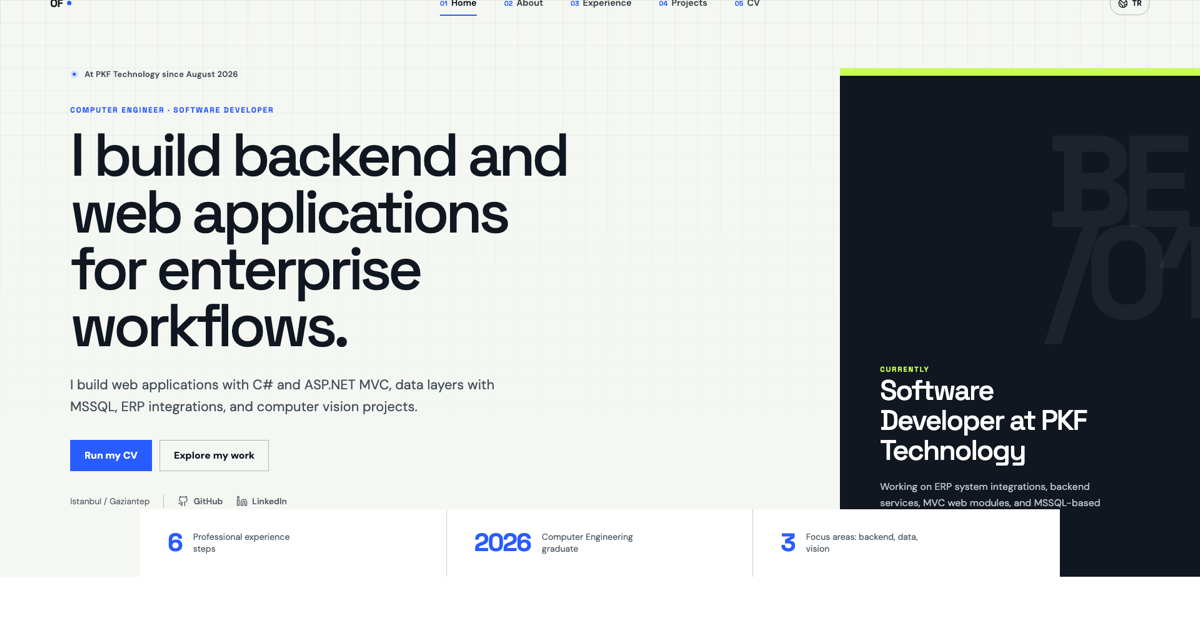
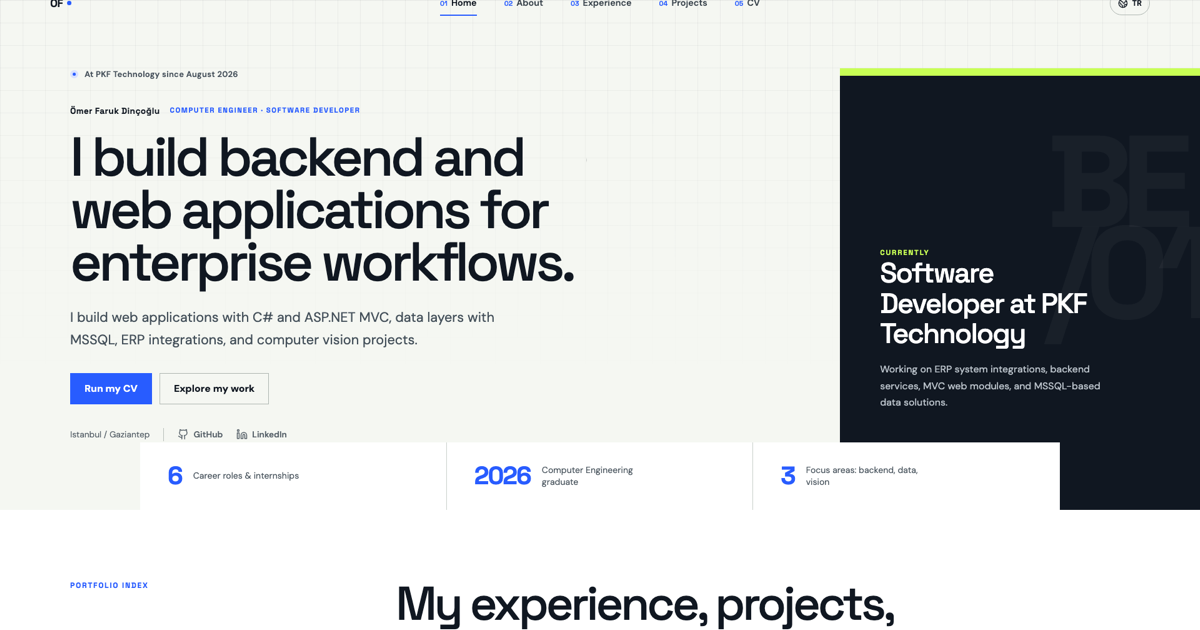
bug fix

diff --git a/src/App.tsx b/src/App.tsx
@@ -23,7 +23,7 @@ const content = {
     viewWork: 'Projeleri incele', watchCv: 'CV’yi çalıştır', contact: 'E-posta gönder', location: 'İstanbul / Gaziantep',
     focusLabel: 'Şu an', focusTitle: 'PKF Teknoloji’de Yazılım Geliştirici',
     focusBody: 'ERP sistem entegrasyonları, backend servisleri, MVC web modülleri ve MSSQL tabanlı veri çözümleri üzerinde çalışıyorum.',
-    stats: [['6', 'Profesyonel deneyim adımı'], ['2026', 'Bilgisayar Mühendisliği mezuniyeti'], ['3', 'Odak alanı: backend, veri, görüntü']],
+    stats: [['6', 'Profesyonel rol ve staj'], ['2026', 'Bilgisayar Mühendisliği mezuniyeti'], ['3', 'Odak alanı: backend, veri, görüntü']],
     homeIndexKicker: 'Portföy Dizini',
     homeIndexTitle: 'Deneyimim, projelerim ve teknik bilgilerim.',
     homeIndexIntro: 'Kariyerim, üretimde çalışan kurumsal sistemler, kişisel projelerim ve interaktif CV ayrı sayfalarda düzenlendi.',
@@ -33,14 +33,14 @@ const content = {
       ['03', 'Projeler', 'Bilgisayarlı görüden web ve veri uygulamalarına seçili çalışmalar.'],
       ['04', 'İnteraktif CV', 'Kariyerimi terminalde satır satır görüntüleyin.'],
     ],
-    profileKicker: '01 / Hakkımda', profileTitle: 'Backend, ERP entegrasyonları ve kurumsal web uygulamaları geliştiriyorum.',
+    profileKicker: '02 / Hakkımda', profileTitle: 'Backend, ERP entegrasyonları ve kurumsal web uygulamaları geliştiriyorum.',
     profileBody: 'Çukurova Üniversitesi Bilgisayar Mühendisliği (İngilizce) mezunuyum. Farklı sektörlerde edindiğim staj deneyimlerini bugün tam zamanlı ürün geliştirme süreçlerine taşıyorum. Backend geliştirme ve veri tasarımındaki odağımı, bilgisayarlı görü ve gerçek zamanlı kamera uygulamalarından gelen problem çözme pratiğiyle birleştiriyorum.',
     principles: [
       ['01', 'Uygulanabilirlik', 'Analizden canlı ortama uzanan, gerçek ihtiyaca bağlı çözümler.'],
       ['02', 'Sistem düşüncesi', 'Servis, veri ve arayüz katmanlarını birlikte ele alan yaklaşım.'],
       ['03', 'Sürekli gelişim', 'Yeni araçları hızla öğrenip üretim pratiğine dönüştürme.'],
     ],
-    cvKicker: '02 / İnteraktif CV', cvTitle: 'Deneyim ve projelerim, terminal formatında.',
+    cvKicker: '05 / İnteraktif CV', cvTitle: 'Deneyim ve projelerim, terminal formatında.',
     cvIntro: 'Bölüme geldiğinizde CV otomatik olarak yazılmaya başlar.', cvReplay: 'Baştan oynat', cvShowAll: 'Tümünü göster',
     cvFile: 'omer-faruk-dincoglu.cv', cvRunning: 'CV oluşturuluyor', cvReady: 'CV hazır',
     cvLines: [
@@ -117,7 +117,7 @@ const content = {
       { title: 'Galatasaray UCL Squad', type: 'Frontend Deneyimi', body: 'Kadro verilerini saha dizilişi ve liste görünümünde sunan; JSON veri yapısı ve SVG saha grafikleri kullanan responsive taraftar projesi.', tech: ['React', 'TypeScript', 'Vite', 'SVG'], image: uclSquadImage, imageAlt: 'Galatasaray UCL Squad canlı proje ekranı', href: 'https://github.com/farukdnc27/ucl2' },
     ],
     projectLink: 'GitHub’da incele',
-    skillsKicker: '05 / Teknik Yetkinlikler', skillsTitle: 'Kullandığım teknolojiler ve yetkinlikler',
+    skillsKicker: 'Teknik Yetkinlikler', skillsTitle: 'Kullandığım teknolojiler ve yetkinlikler',
     skillGroups: [
       { title: 'Backend & Web', body: 'Servisler, MVC modülleri ve entegrasyonlar', items: ['C#', 'ASP.NET MVC', 'Backend mimarileri', 'JavaScript', 'Servis entegrasyonları'] },
       { title: 'Veri & ERP', body: 'Modelleme, sorgulama ve iş sistemleri', items: ['MSSQL', 'SQL', 'Veri modelleme', 'Performans iyileştirme', 'Canias ERP'] },
@@ -131,7 +131,7 @@ const content = {
     heroTitle: 'I build backend and web applications for enterprise workflows.', heroBody: 'I build web applications with C# and ASP.NET MVC, data layers with MSSQL, ERP integrations, and computer vision projects.',
     viewWork: 'Explore my work', watchCv: 'Run my CV', contact: 'Send an email', location: 'Istanbul / Gaziantep',
     focusLabel: 'Currently', focusTitle: 'Software Developer at PKF Technology', focusBody: 'Working on ERP system integrations, backend services, MVC web modules, and MSSQL-based data solutions.',
-    stats: [['6', 'Professional experience steps'], ['2026', 'Computer Engineering graduate'], ['3', 'Focus areas: backend, data, vision']],
+    stats: [['6', 'Career roles & internships'], ['2026', 'Computer Engineering graduate'], ['3', 'Focus areas: backend, data, vision']],
     homeIndexKicker: 'Portfolio Index',
     homeIndexTitle: 'My experience, projects, and technical background.',
     homeIndexIntro: 'My career, production enterprise systems, personal projects, and interactive CV now live on dedicated pages.',
@@ -141,14 +141,14 @@ const content = {
       ['03', 'Projects', 'Selected work across computer vision, web, and data.'],
       ['04', 'Interactive CV', 'Watch my career render line by line in the terminal.'],
     ],
-    profileKicker: '01 / About', profileTitle: 'I build backend systems, ERP integrations, and enterprise web applications.',
+    profileKicker: '02 / About', profileTitle: 'I build backend systems, ERP integrations, and enterprise web applications.',
     profileBody: 'I graduated from the English-taught Computer Engineering program at Çukurova University. Today, I bring the experience I gained through internships in different industries into full-time product development. I combine my focus on backend development and data design with the problem-solving practice I gained from computer vision and real-time camera applications.',
     principles: [
       ['01', 'Practical delivery', 'Solutions tied to real needs, from analysis through production.'],
       ['02', 'Systems thinking', 'An approach that considers service, data, and interface layers together.'],
       ['03', 'Continuous growth', 'Learning new tools quickly and turning them into production practice.'],
     ],
-    cvKicker: '02 / Interactive CV', cvTitle: 'My experience and projects in terminal format.',
+    cvKicker: '05 / Interactive CV', cvTitle: 'My experience and projects in terminal format.',
     cvIntro: 'The CV starts typing automatically when it enters the screen.', cvReplay: 'Replay', cvShowAll: 'Show all',
     cvFile: 'omer-faruk-dincoglu.cv', cvRunning: 'Rendering CV', cvReady: 'CV ready',
     cvLines: [
@@ -225,7 +225,7 @@ const content = {
       { title: 'Galatasaray UCL Squad', type: 'Frontend Experience', body: 'A responsive fan project presenting squad data in formation and list views with a JSON data model and SVG pitch graphics.', tech: ['React', 'TypeScript', 'Vite', 'SVG'], image: uclSquadImage, imageAlt: 'Live Galatasaray UCL Squad project screen', href: 'https://github.com/farukdnc27/ucl2' },
     ],
     projectLink: 'View on GitHub',
-    skillsKicker: '05 / Technical Skills', skillsTitle: 'Technologies I use',
+    skillsKicker: 'Technical Skills', skillsTitle: 'Technologies I use',
     skillGroups: [
       { title: 'Backend & Web', body: 'Services, MVC modules, and integrations', items: ['C#', 'ASP.NET MVC', 'Backend architecture', 'JavaScript', 'Service integrations'] },
       { title: 'Data & ERP', body: 'Modelling, querying, and business systems', items: ['MSSQL', 'SQL', 'Data modelling', 'Performance improvement', 'Canias ERP'] },
@@ -460,7 +460,7 @@ function App() {
           <div className="hero__grid" aria-hidden="true" />
           <div className="hero__copy reveal">
             <div className="availability"><span />{t.availability}</div>
-            <p className="eyebrow">{t.eyebrow}</p>
+            <div className="hero-identity"><strong>Ömer Faruk Dinçoğlu</strong><span>{t.eyebrow}</span></div>
             <h1 id="hero-title">{t.heroTitle}</h1>
             <p className="hero__body">{t.heroBody}</p>
             <div className="hero__actions"><Link className="button button--primary" to="/cv">{t.watchCv}</Link><Link className="button button--ghost" to="/projects">{t.viewWork}</Link></div>

diff --git a/src/index.css b/src/index.css
@@ -75,9 +75,12 @@ button { color: inherit; }
 .hero__copy { align-self: center; max-width: 830px; padding-bottom: 110px; position: relative; z-index: 1; }
 .availability { align-items: center; color: #48535d; display: flex; font-size: .82rem; font-weight: 600; gap: 10px; letter-spacing: .02em; margin-bottom: 38px; }
 .availability span { background: var(--blue); border: 4px solid #d9e1ff; border-radius: 50%; height: 13px; width: 13px; }
+.hero-identity { align-items: center; display: flex; flex-wrap: wrap; gap: 9px 16px; margin: 0 0 22px; }
+.hero-identity strong { font-family: var(--display); font-size: .86rem; letter-spacing: .025em; }
+.hero-identity span { color: var(--blue); font-family: var(--display); font-size: .72rem; font-weight: 700; letter-spacing: .13em; text-transform: uppercase; }
 .eyebrow, .section-kicker { color: var(--blue); font-family: var(--display); font-size: .76rem; font-weight: 700; letter-spacing: .14em; margin: 0 0 18px; text-transform: uppercase; }
 h1, h2, h3, h4 { font-family: var(--display); margin-top: 0; }
-.hero h1 { font-size: clamp(3.4rem, 6.2vw, 6rem); letter-spacing: -.06em; line-height: .95; margin-bottom: 30px; max-width: 880px; }
+.hero h1 { font-size: clamp(3.4rem, 5.7vw, 5.45rem); letter-spacing: -.058em; line-height: .96; margin-bottom: 30px; max-width: 880px; }
 .hero__body { color: #44505a; font-size: clamp(1.08rem, 1.6vw, 1.36rem); line-height: 1.62; margin: 0 0 36px; max-width: 700px; }
 .hero__actions { display: flex; flex-wrap: wrap; gap: 12px; }
 .button { align-items: center; border: 1px solid transparent; display: inline-flex; font-weight: 700; gap: 10px; justify-content: center; min-height: 50px; padding: 0 22px; transition: transform .18s ease, background .18s ease, color .18s ease; }
@@ -91,9 +94,9 @@ h1, h2, h3, h4 { font-family: var(--display); margin-top: 0; }
 .social-row a { align-items: center; display: inline-flex; font-weight: 600; gap: 7px; }
 .social-row a:hover { color: var(--blue); }
 
-.hero__panel { align-self: stretch; background: var(--ink); color: white; display: flex; flex-direction: column; justify-content: space-between; margin: 0 -112px 0 45px; overflow: hidden; padding: 108px max(7vw, 60px) 78px 64px; position: relative; z-index: 2; }
+.hero__panel { align-self: stretch; background: var(--ink); color: white; display: flex; flex-direction: column; justify-content: space-between; margin: 0 -112px 0 45px; overflow: hidden; padding: 108px max(7vw, 60px) 158px 64px; position: relative; z-index: 2; }
 .hero__panel::before { background: var(--acid); content: ''; height: 12px; left: 0; position: absolute; right: 0; top: 0; }
-.hero__panel-code { color: rgba(255,255,255,.055); font-family: var(--display); font-size: clamp(7rem, 13vw, 13rem); font-weight: 700; letter-spacing: -.09em; line-height: .7; position: absolute; right: -8px; top: 110px; }
+.hero__panel-code { color: rgba(255,255,255,.038); font-family: var(--display); font-size: clamp(7rem, 13vw, 13rem); font-weight: 700; letter-spacing: -.09em; line-height: .7; position: absolute; right: -8px; top: 110px; }
 .hero__panel-content { margin-top: auto; position: relative; }
 .hero__panel-content p { color: var(--acid); font-family: var(--display); font-size: .72rem; font-weight: 700; letter-spacing: .16em; text-transform: uppercase; }
 .hero__panel-content h2 { font-size: clamp(1.8rem, 3vw, 2.8rem); letter-spacing: -.045em; line-height: 1.08; margin-bottom: 20px; }
